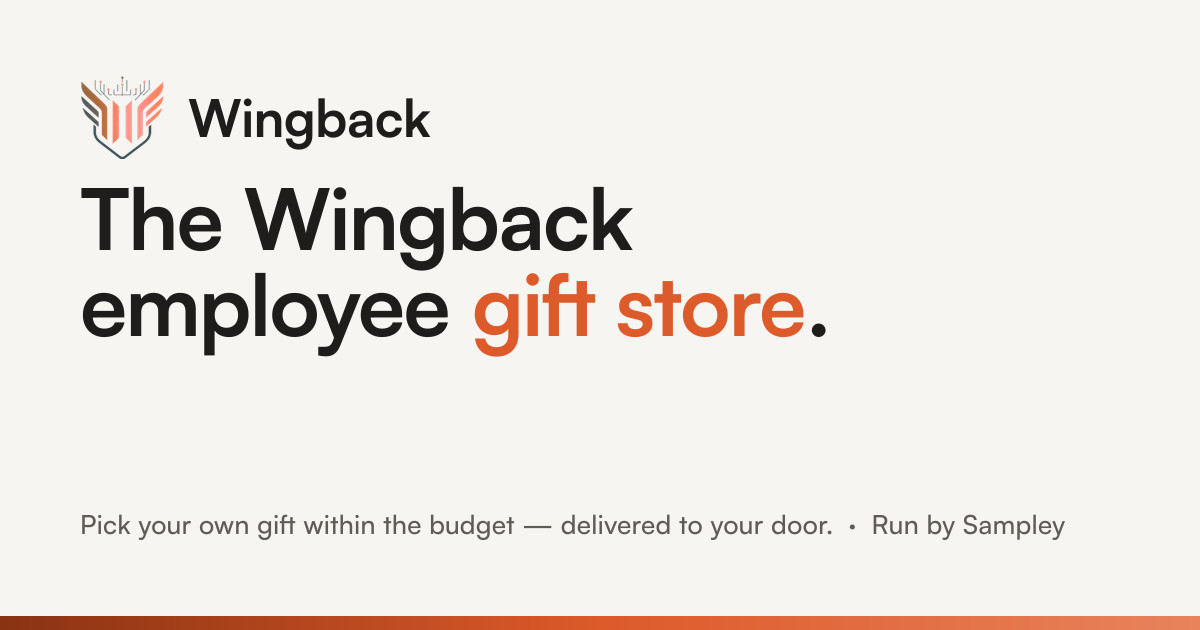
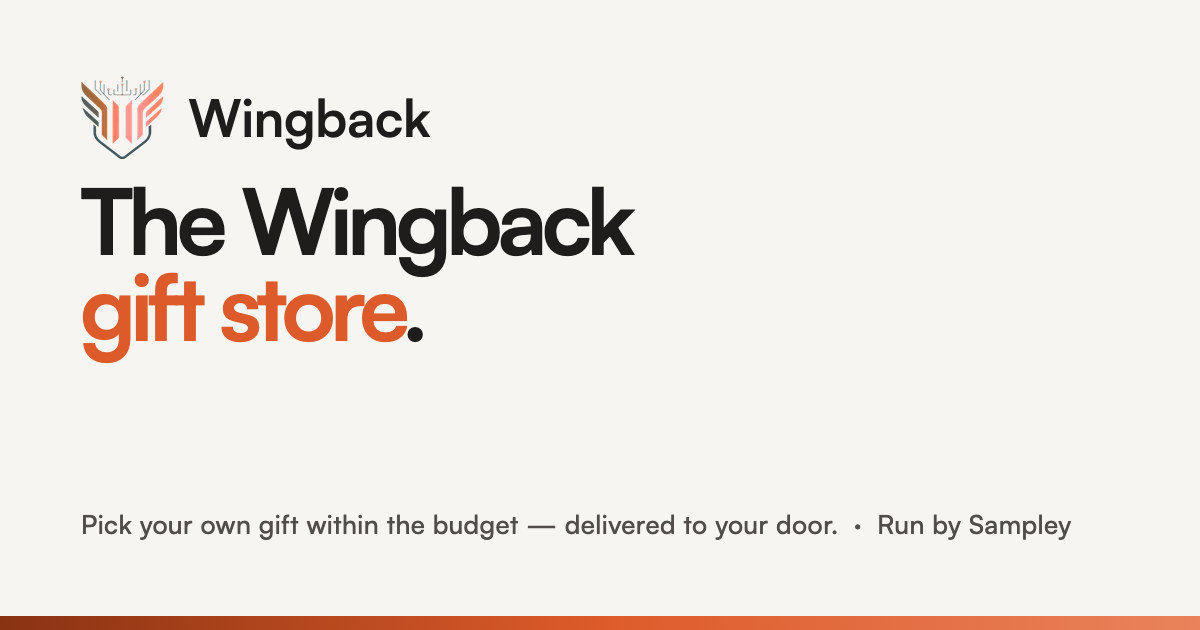
rename the store to "Wingback Gift Store"
The store dropped "employee" from its name. It was written into fifteen
files -- the page titles, every page's Open Graph `siteName`, three card
`alt` strings, the web manifest and the footer line -- and, less
reachably, drawn into the home page's share card as type.

The card is regenerated rather than edited: same 1200x630 layout, same
Satoshi weights, same gradient rule, with the logo block lifted pixel for
pixel out of the old file so the lockup cannot drift. The headline is now
"The Wingback / gift store.", keeping the orange on the two words that
name the thing.

Both of the URLs the store used to live at now redirect to the home page,
where it actually is. `/gift-store` was still pointing at
`/employee-gift-store`, which was deleted in ce93926 -- so a URL kept
alive precisely because it was indexed had been redirecting into a 404
ever since.

AGENTS.md: the store-name rule rewritten around the new name and the
reminder that the card artwork carries it too; two JSON-LD rules that
still named `GiftStoreJsonLd` and the deleted store page corrected to the
components that exist.

Changed region(s): [[0.0617, 0.3016, 0.7092, 0.573], [0.4625, 0.8143, 0.8942, 0.8746], [0.0617, 0.8143, 0.4317, 0.8746]]

diff --git a/src/app/page.tsx b/src/app/page.tsx
@@ -30,7 +30,7 @@ import {
 export const dynamic = "force-dynamic";
 
 export const metadata: Metadata = {
-    title: "Employee Gift Store | Wingback",
+    title: "Wingback Gift Store",
     description:
         "Sampley runs branded employee gift stores and direct corporate gifting with budget controls, curated gifts and managed pan-India delivery.",
     authors: [{ name: "Sampley" }],
@@ -55,9 +55,9 @@ export const metadata: Metadata = {
     },
     openGraph: {
         type: "website",
-        siteName: "Wingback Employee Gift Store",
+        siteName: "Wingback Gift Store",
         url: absoluteUrl("/"),
-        title: "Wingback employee gift store",
+        title: "Wingback Gift Store",
         description:
             "Let employees choose within your budget\u2014or send a gift to every client, partner or event guest. Sampley manages curation, sourcing, branding and pan-India delivery.",
         images: [
@@ -65,7 +65,7 @@ export const metadata: Metadata = {
                 url: absoluteUrl("/assets/wingback-home-og.jpg"),
                 width: 1200,
                 height: 630,
-                alt: "Wingback employee gift store",
+                alt: "Wingback Gift Store",
             },
         ],
         locale: "en_IN",
@@ -74,7 +74,7 @@ export const metadata: Metadata = {
         card: "summary_large_image",
         // Kept identical to the Open Graph pair: two different cards for the
         // same page is a maintenance trap, and X falls back to og:* anyway.
-        title: "Wingback employee gift store",
+        title: "Wingback Gift Store",
         description:
             "Let employees choose within your budget\u2014or send a gift to every client, partner or event guest. Sampley manages curation, sourcing, branding and pan-India delivery.",
         images: [absoluteUrl("/assets/wingback-home-og.jpg")],

diff --git a/next.config.ts b/next.config.ts
@@ -83,12 +83,20 @@ const nextConfig: NextConfig = {
     async redirects() {
         return [
             {
-                // The employee store moved to a URL that says what it is. The
-                // old one is indexed and linked from outside, so it answers 301
-                // rather than 404: a permanent redirect passes the page's
-                // standing to the new URL instead of starting it over.
+                // The store is the home page now, so both of the URLs it used
+                // to live at redirect rather than 404 (`permanent: true` is a
+                // 308, which passes the page's standing on the same way a 301
+                // does). `/gift-store` is indexed and linked from outside, and
+                // `/employee-gift-store` is where it pointed until the store
+                // moved -- that one was left redirecting to a page that no
+                // longer exists, so it redirected straight into a 404.
                 source: "/gift-store",
-                destination: "/employee-gift-store",
+                destination: "/",
+                permanent: true,
+            },
+            {
+                source: "/employee-gift-store",
+                destination: "/",
                 permanent: true,
             },
             {

diff --git a/src/app/layout.tsx b/src/app/layout.tsx
@@ -23,11 +23,11 @@ export const metadata: Metadata = {
   verification: {
     other: { "msvalidate.01": "834AFD9E6839468541989A078B8EB484" },
   },
-  // No `template` here: every page already ends its own title with
-  // "| Wingback", so a template would render it twice.
-  title: "Employee Gift Store | Wingback",
+  // No `template` here: every page writes its own full title and already
+  // carries the brand inside it, so a template would render it twice.
+  title: "Wingback Gift Store",
   description:
-    "Sampley runs the Wingback employee gift store end to end: branded employee stores where recipients choose within budget, and direct gifting for clients and partners, with managed pan-India delivery.",
+    "Sampley runs the Wingback Gift Store end to end: branded employee stores where recipients choose within budget, and direct gifting for clients and partners, with managed pan-India delivery.",
   // Pages that must not be indexed say so themselves. A blanket no-index here
   // silently suppressed every page that did not override it.
   robots: {

diff --git a/src/app/category/[slug]/page.tsx b/src/app/category/[slug]/page.tsx
@@ -65,7 +65,7 @@ export async function generateMetadata({ params }: CategoryPageProps): Promise<M
             alternates: { canonical: `/category/${slug}` },
             openGraph: {
                 type: "website",
-                siteName: "Wingback Employee Gift Store",
+                siteName: "Wingback Gift Store",
                 url: `/category/${slug}`,
                 title: subTitle,
             },
@@ -86,7 +86,7 @@ export async function generateMetadata({ params }: CategoryPageProps): Promise<M
         alternates: { canonical: `/category/${category.slug}` },
         openGraph: {
             type: "website",
-            siteName: "Wingback Employee Gift Store",
+            siteName: "Wingback Gift Store",
             url: `/category/${category.slug}`,
             title,
             description,

diff --git a/src/app/diwali-gifting/page.tsx b/src/app/diwali-gifting/page.tsx
@@ -53,7 +53,7 @@ export const metadata: Metadata = {
   },
   openGraph: {
     type: "website",
-    siteName: "Wingback Employee Gift Store",
+    siteName: "Wingback Gift Store",
     url: absoluteUrl("/diwali-gifting"),
     title: "Diwali Corporate Gifts for Employees & Clients | Wingback",
     description:
@@ -63,7 +63,7 @@ export const metadata: Metadata = {
         url: absoluteUrl("/assets/wingback-diwali-gifting-og.jpg"),
         width: 1200,
         height: 630,
-        alt: "Wingback employee gift store - Diwali",
+        alt: "Wingback Gift Store - Diwali",
       },
     ],
     locale: "en_IN",

diff --git a/src/app/manifest.ts b/src/app/manifest.ts
@@ -9,10 +9,10 @@ import type { MetadataRoute } from "next";
  */
 export default function manifest(): MetadataRoute.Manifest {
     return {
-        name: "Wingback Employee Gift Store",
+        name: "Wingback Gift Store",
         short_name: "Wingback",
         description:
-            "Wingback's employee gift store, run by Sampley: choose your own gift within the budget and have it delivered.",
+            "The Wingback Gift Store, run by Sampley: choose your own gift within the budget and have it delivered.",
         start_url: "/",
         display: "standalone",
         background_color: "#f6f5f2",

diff --git a/src/app/how-it-works/page.tsx b/src/app/how-it-works/page.tsx
@@ -49,7 +49,7 @@ export const metadata: Metadata = {
   },
   openGraph: {
     type: "website",
-    siteName: "Wingback Employee Gift Store",
+    siteName: "Wingback Gift Store",
     url: absoluteUrl("/how-it-works"),
     title: "How Corporate Gifting Works, Step by Step | Wingback",
     description:
@@ -57,7 +57,7 @@ export const metadata: Metadata = {
     images: [
       {
         url: absoluteUrl("/assets/wingback-logo-full@2x.png"),
-        alt: "Wingback employee gift store - how it works",
+        alt: "Wingback Gift Store - how it works",
       },
     ],
     locale: "en_IN",

diff --git a/src/app/ai-gift-finder/page.tsx b/src/app/ai-gift-finder/page.tsx
@@ -32,7 +32,7 @@ export const metadata: Metadata = {
   },
   openGraph: {
     type: "website",
-    siteName: "Wingback Employee Gift Store",
+    siteName: "Wingback Gift Store",
     url: absoluteUrl("/ai-gift-finder"),
     title: "AI Gift Finder | Wingback",
     description:
@@ -40,7 +40,7 @@ export const metadata: Metadata = {
     images: [
       {
         url: absoluteUrl("/assets/wingback-logo-full@2x.png"),
-        alt: "Wingback employee gift store — AI Gift Finder",
+        alt: "Wingback Gift Store — AI Gift Finder",
       },
     ],
     locale: "en_IN",

diff --git a/src/components/common/SiteFooter.tsx b/src/components/common/SiteFooter.tsx
@@ -44,7 +44,7 @@ export function SiteFooter() {
                     </div>
                 </div>
                 <div className="copyright">
-                    <span>© 2026 Wingback employee gift store · run by Sampley.</span>
+                    <span>© 2026 Wingback Gift Store · run by Sampley.</span>
                     <span>
                         Built for employee, client, partner and festive gifting programs.
                     </span>

diff --git a/src/app/privacy-policy/terms-and-conditions/page.tsx b/src/app/privacy-policy/terms-and-conditions/page.tsx
@@ -8,7 +8,7 @@ export const metadata: Metadata = {
     alternates: { canonical: termsAndConditions.href },
     openGraph: {
         type: "article",
-        siteName: "Wingback Employee Gift Store",
+        siteName: "Wingback Gift Store",
         url: termsAndConditions.href,
         title: termsAndConditions.metaTitle,
         description: termsAndConditions.metaDescription,

diff --git a/src/app/privacy-policy/return-exchange/page.tsx b/src/app/privacy-policy/return-exchange/page.tsx
@@ -8,7 +8,7 @@ export const metadata: Metadata = {
     alternates: { canonical: returnExchange.href },
     openGraph: {
         type: "article",
-        siteName: "Wingback Employee Gift Store",
+        siteName: "Wingback Gift Store",
         url: returnExchange.href,
         title: returnExchange.metaTitle,
         description: returnExchange.metaDescription,

diff --git a/src/app/products/[slug]/page.tsx b/src/app/products/[slug]/page.tsx
@@ -84,7 +84,7 @@ export async function generateMetadata({ params }: ProductDetailPageProps): Prom
         },
         openGraph: {
             type: "website",
-            siteName: "Wingback Employee Gift Store",
+            siteName: "Wingback Gift Store",
             url: absoluteUrl(path),
             title,
             description: description || undefined,
